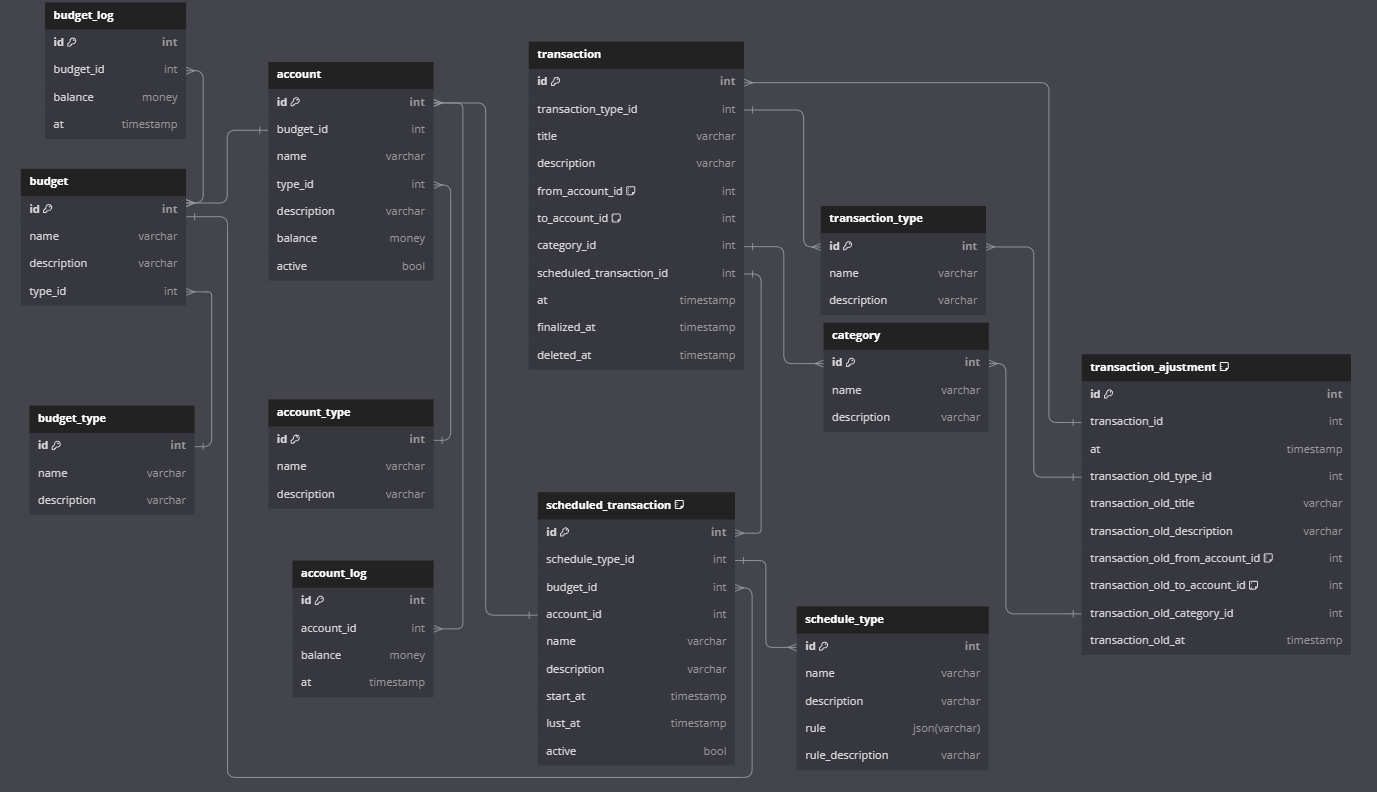
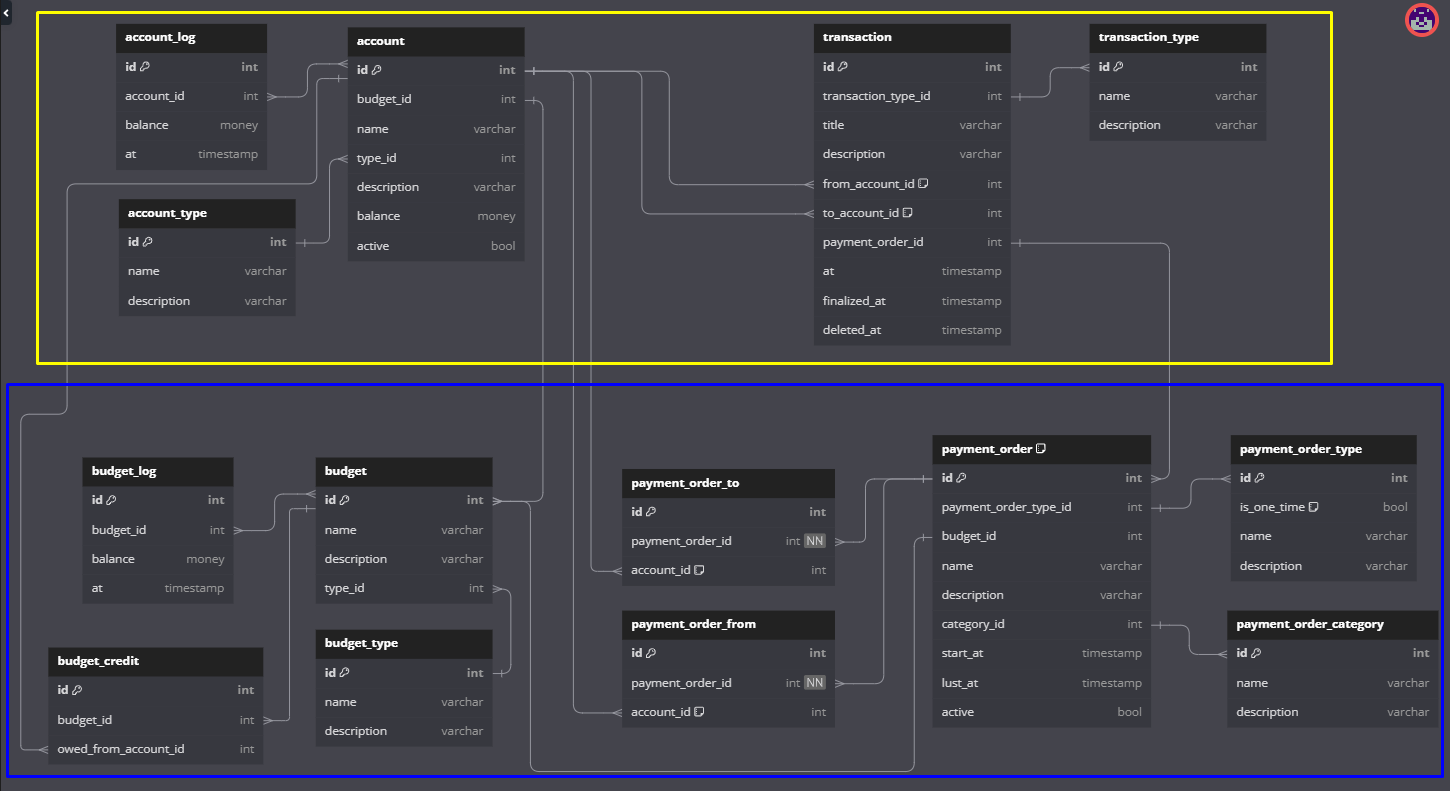
change schema

diff --git a/README.md b/README.md
@@ -8,27 +8,20 @@ You can find the diagram [here](https://dbdiagram.io/d/DP-660b4a1a37b7e33fd740ce
 # Explanation
 
 ## The whole picture. 
-I see a budget as a higher layer of abstraction on top of money. A budget can be surplus (money left on account) or deficit (credit spent).
+I see a budget as a higher layer of abstraction on top of money (accounts and transactions). A budget can be surplus (money left on account) or deficit (credit spent).
 Budget is in fact a groupe af accounts and other budgets.
 There are different types of budget (main, education, goal, etc.)
 
-Money (accounts) and transactions are the base level of abstraction. Accounts only can store money. 
-Each spending or earning is a transaction. Any transaction before it is done should be planned (`scheduled_transaction` table) within a budget. On planning step accounts that effected by the transaction are set. 
-So a transaction itself belongs to a particular account only. A plan of a transaction belongs to a budget. 
+Money (accounts) and transactions are the base level of abstraction (yellow rectangle ont the picture). Accounts only can store money. User cannot manipulate money directly. User creates payment order instead. Think about payment_order as an interface for interacting with accounts and transactions. It helps not to mess different levels of abstraction.
+Each spending or earning is a transaction. Any transaction before it is done should be ordered by user (`payment_order` table) within a budget. On ordering step accounts that effected by the transaction are set. 
+So a transaction itself belongs to a particular account only. A payment_order belongs to a budget. 
 Earning transactions belong to an account thar money go to.
 Spending transactions belong to an account that money go from.
 A transfer between accounts is a spending.
-Transaction can be changed, info about changes is kept in dedicated table.
+Tables for keeping track of payment orders adjustments are omitted due to keep the schema as simple as possible for now.
 
 Each budget can have some accounts or use an account of a higher level budget. For example I have MAIN budget with account CHECKING ($1000 comes automatically weekly) and nested budgets FUN and TRANSPORT. FUN budget has an account in it where I transfer $100 automatically as my paycheck comes. When I spend money within FUN budget I use it's account by default. But if there is not enough money for something I can transfer more from higher level budget's account CHECKING manually (it keeps FUN surplus). Or I can spend money from higher level budget's account CHECKING. In that case FUN becomes deficit (borrows money from CHECKING). To make balance positive again I should transfer money to CHECKING back. If it is time for auto transaction of $100 from CHECKING to FUN and FUN ows $150 CHECKING the app should catch it and reduce amount FUN ows by $100 (by doing 2 auto transactions I think). TRANSPORT budget does not have any accounts. It uses higher level budget's account CHECKING with no limits directly.
 
 ## Tables (in progress)
-Account keeps money and can belong to only budget.
-There are different types of accounts (cash, credit, checking)
-
-Scheduled transaction is planned automatic (weekly, biweekly, etc.) transaction
-or single planned transaction.
-
-There are `account_log` and `budget_log` to keep track of changes.
-Maybe there should be a dedicated table for transferring account between budgets.
+Here explanations for each table are going to be
 
